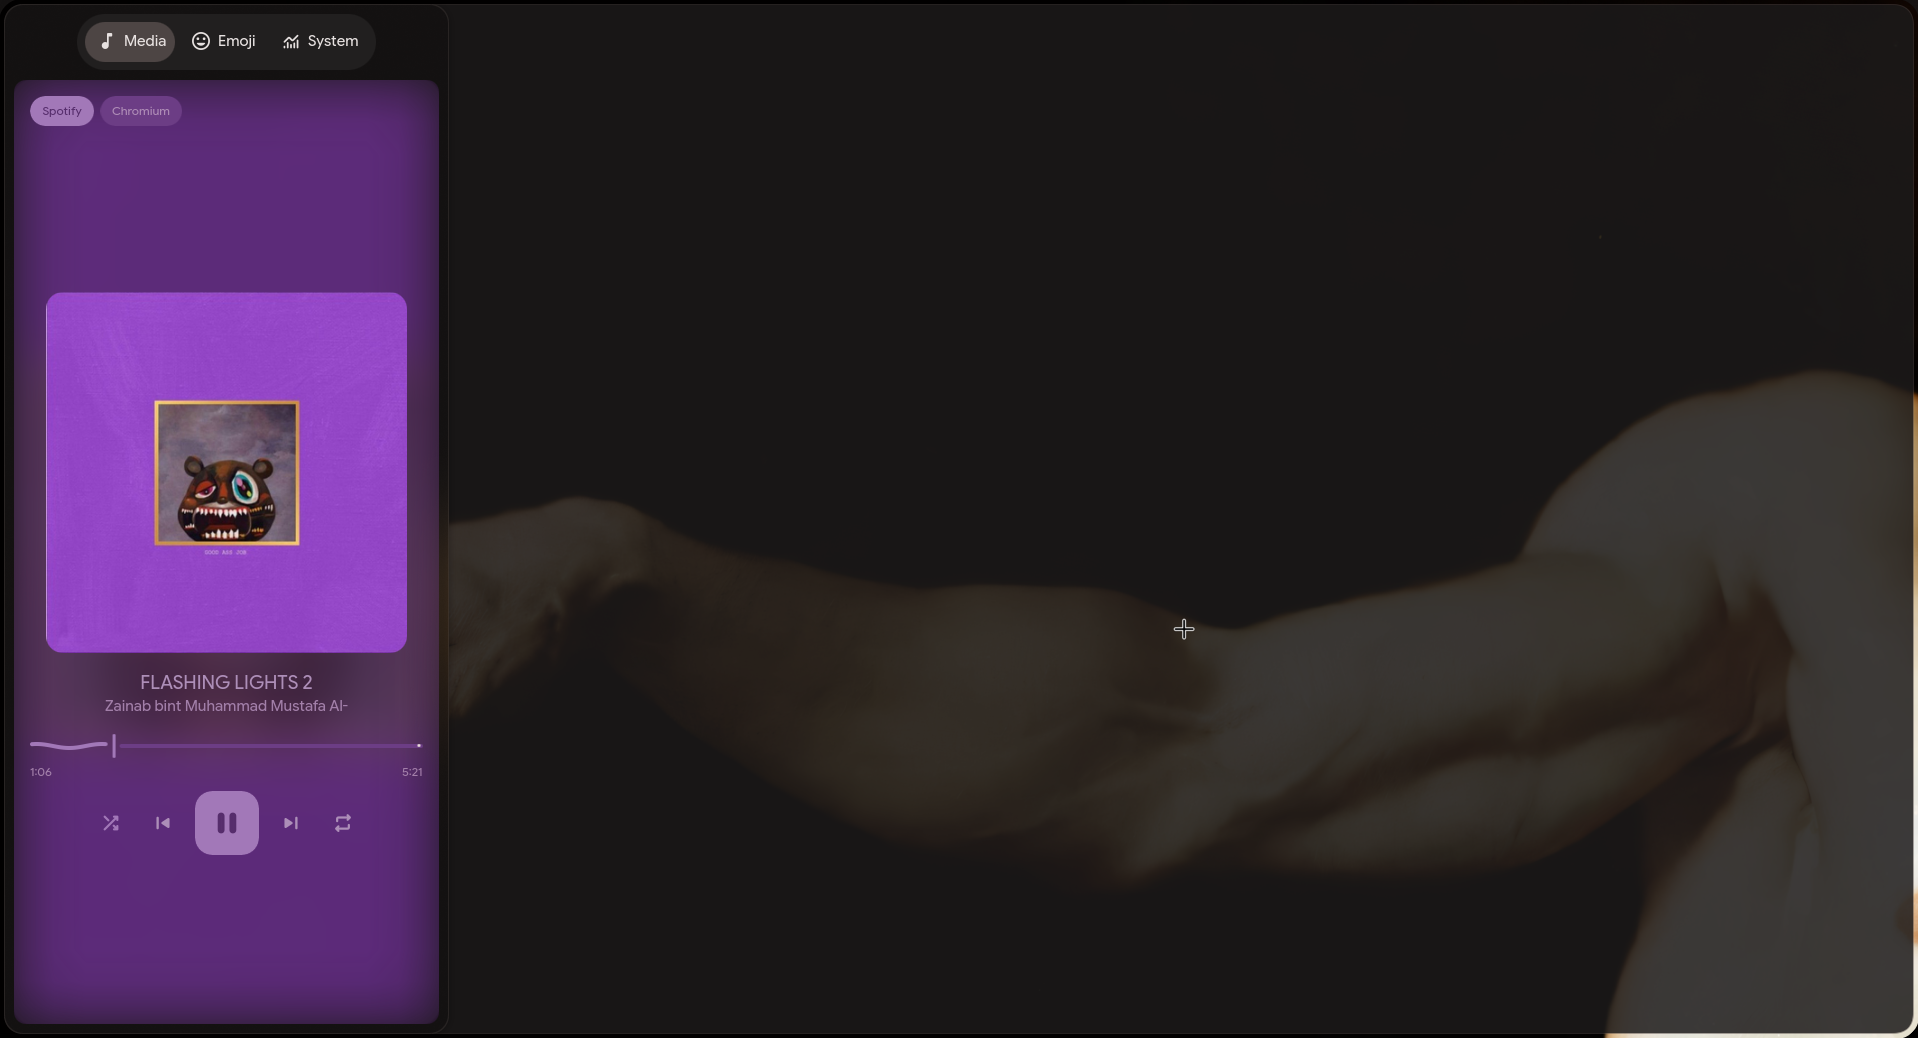
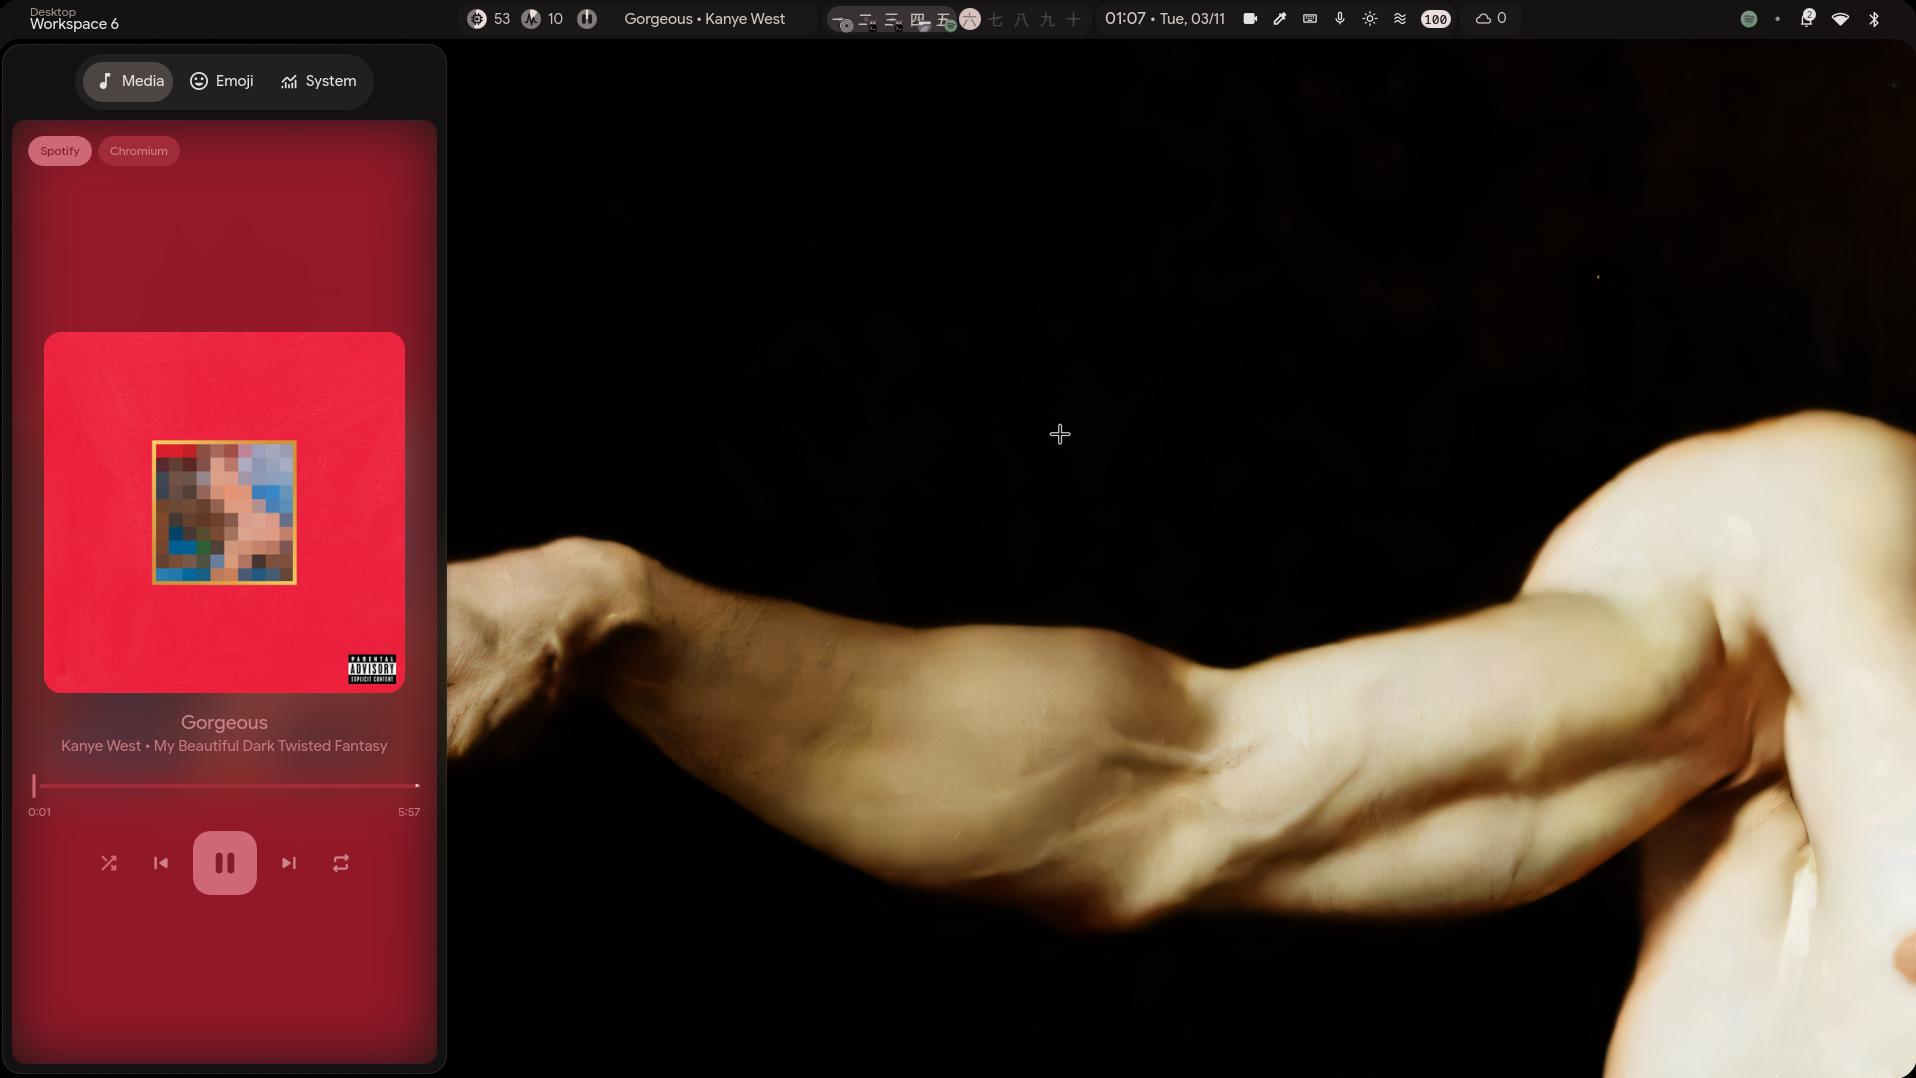
update media sidebar screenshot, add spotify screenshot

diff --git a/README.md b/README.md
@@ -12,8 +12,8 @@ My Hyprland + Quickshell setup. It's a **fork of [end-4/dots-hyprland](https://g
 | Left sidebar, Media tab (`Super + A`) | Left sidebar, Emoji tab (`Super + .`) |
 | ![Drop-down scratchpad terminal](screenshots/scratchpadterminal.png) | ![Kitty terminal](screenshots/terminal.png) |
 | Drop-down scratchpad terminal (`` Super + ` ``) | Kitty |
-| ![Obsidian](screenshots/obsidian.png) | |
-| Obsidian at 0.96 opacity | |
+| ![Obsidian](screenshots/obsidian.png) | ![Spotify](screenshots/spotify.png) |
+| Obsidian at 0.96 opacity | Spotify at 0.96 opacity |
 
 ## Credits
 
